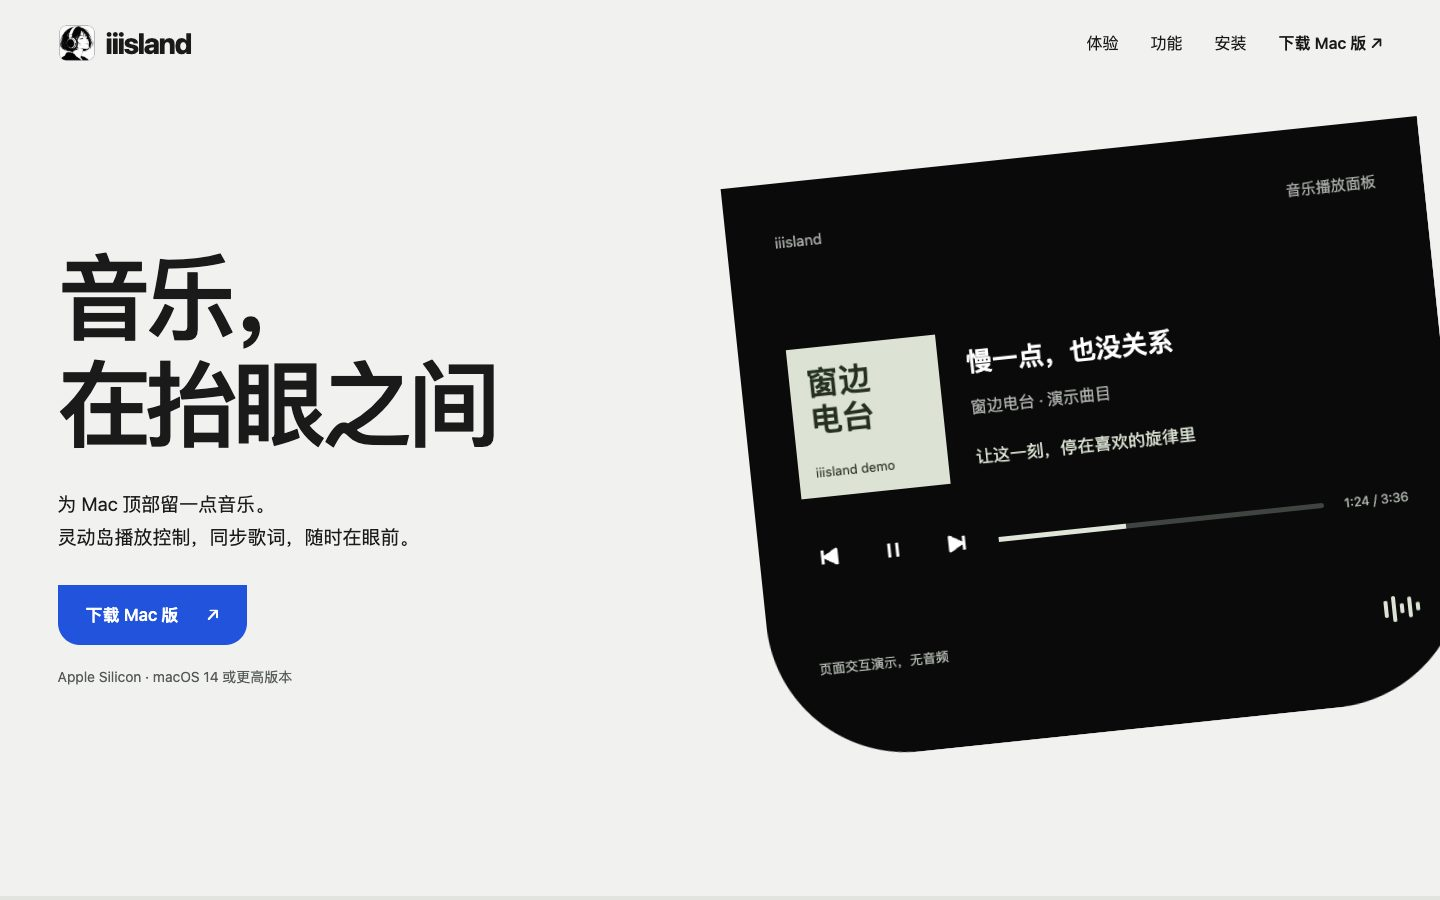
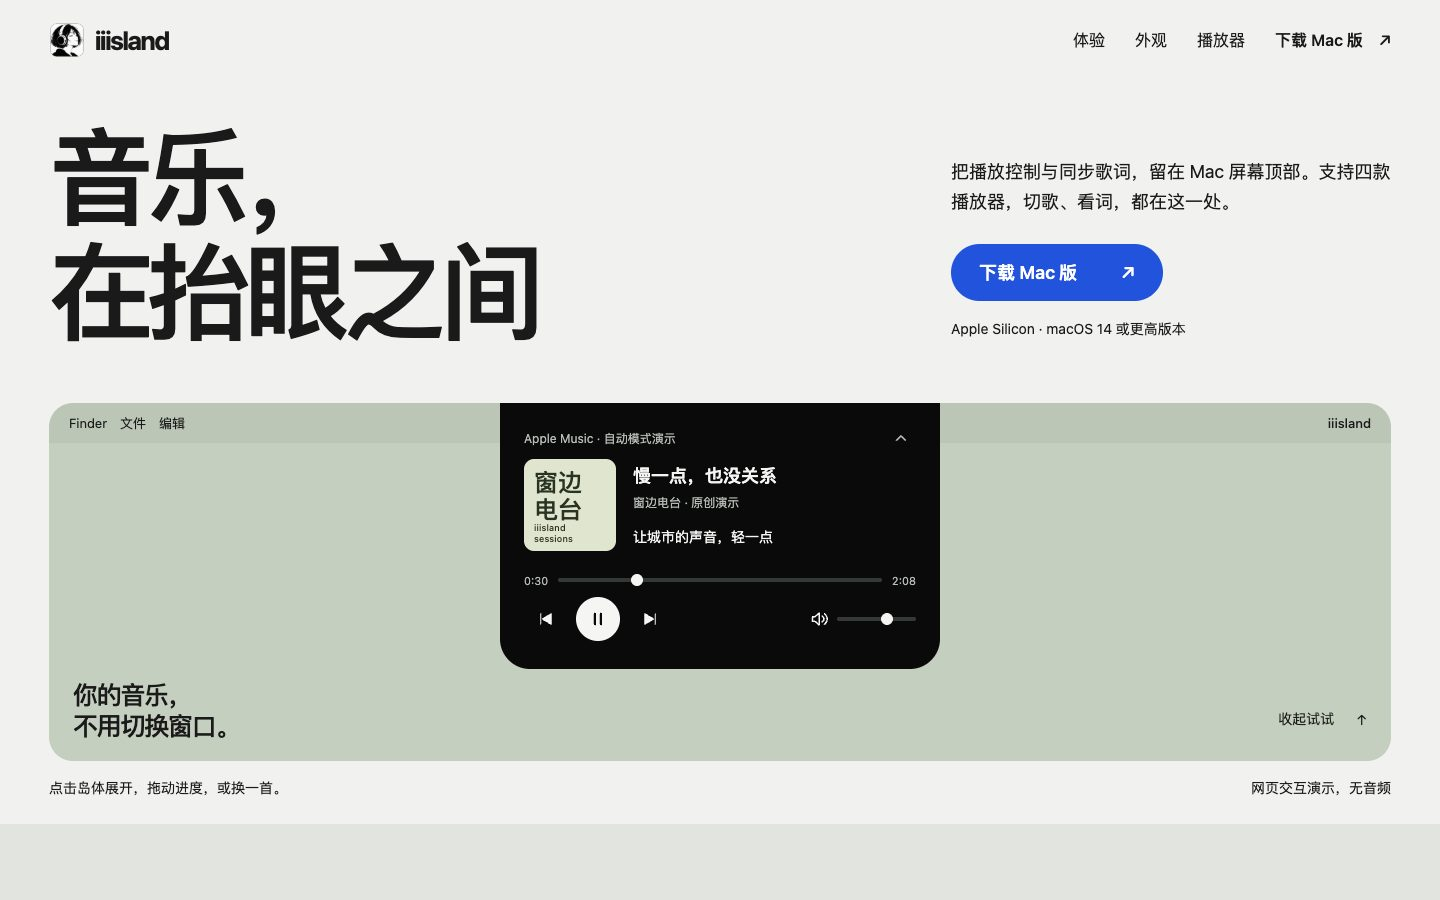
Refresh interactive website preview and simplify product descriptions

diff --git a/README.en.md b/README.en.md
@@ -8,6 +8,8 @@
 
 *The image shows an interactive website illustration with original demo songs and lyrics. It is not a screenshot of a connected music player.*
 
+[Try the website](https://iiisland.pages.dev): expand or collapse the island, switch tracks, seek, select a lyric line, and preview appearance and size settings. The browser demo does not play audio.
+
 ## Keep your music within reach
 
 See the cover, check a lyric, or skip a track without switching windows. iiisland keeps your music at the top of the screen, compact while you work and ready to expand on hover or click.
@@ -17,7 +19,6 @@ See the cover, check a lyric, or skip a track without switching windows. iiislan
 - **Fit your screen.** Adjust collapsed and expanded width and height separately, with layouts for displays with or without a notch.
 - **Choose your look.** Use classic black or native Liquid Glass on macOS 26. Switch between day and night modes, with your choice remembered.
 - **Launch with your player.** Enable the option to open iiisland when a supported music player starts.
-- **One app to open.** Run iiisland.app without launching separate boringNotch or LyricsX apps.
 
 ## Player support
 

diff --git a/README.md b/README.md
@@ -8,6 +8,8 @@
 
 *画面为网页交互示意，歌曲与歌词均为原创演示内容，不是真实播放器截图。*
 
+[在官网试用](https://iiisland.pages.dev)：展开与收起、切歌、拖动进度、点选歌词，以及外观和尺寸预览。网页演示不播放音频。
+
 ## 抬眼看歌词，伸手控音乐
 
 不用来回切换播放器。iiisland 将封面、歌曲信息、播放控制和歌词放在屏幕顶部：收起时轻巧陪伴，悬停或点击即可展开。
@@ -17,7 +19,6 @@
 - **适合你的屏幕。** 分别调整收起与展开的宽高，支持有刘海与无刘海屏幕布局。
 - **两种外观。** 经典黑融入屏幕顶部；macOS 26 上可选择原生液态玻璃。日间与夜间模式可以手动切换并记忆。
 - **随播放器启动。** 开启后，启动支持的播放器即可打开 iiisland。
-- **一个应用，直接使用。** 只需运行 iiisland.app，无需另外启动 boringNotch 或 LyricsX。
 
 ## 播放器支持
 

diff --git a/NOTICE.md b/NOTICE.md
@@ -1,8 +1,8 @@
 # Third-party notices / 第三方致谢
 
-iiisland incorporates or adapts work from the projects below. It runs as its own application and does not require separate boringNotch or LyricsX apps. This public distribution repository does not replace or alter the licenses of those components.
+iiisland incorporates or adapts work from the projects below. This public distribution repository does not replace or alter the licenses of those components.
 
-iiisland 使用或改编了以下项目的成果，以独立应用运行，无需另外启动 boringNotch 或 LyricsX。本公开发布仓库不改变这些组件的许可证。
+iiisland 使用或改编了以下项目的成果。本公开发布仓库不改变这些组件的许可证。
 
 | Project | License / source basis | Contribution |
 | --- | --- | --- |
